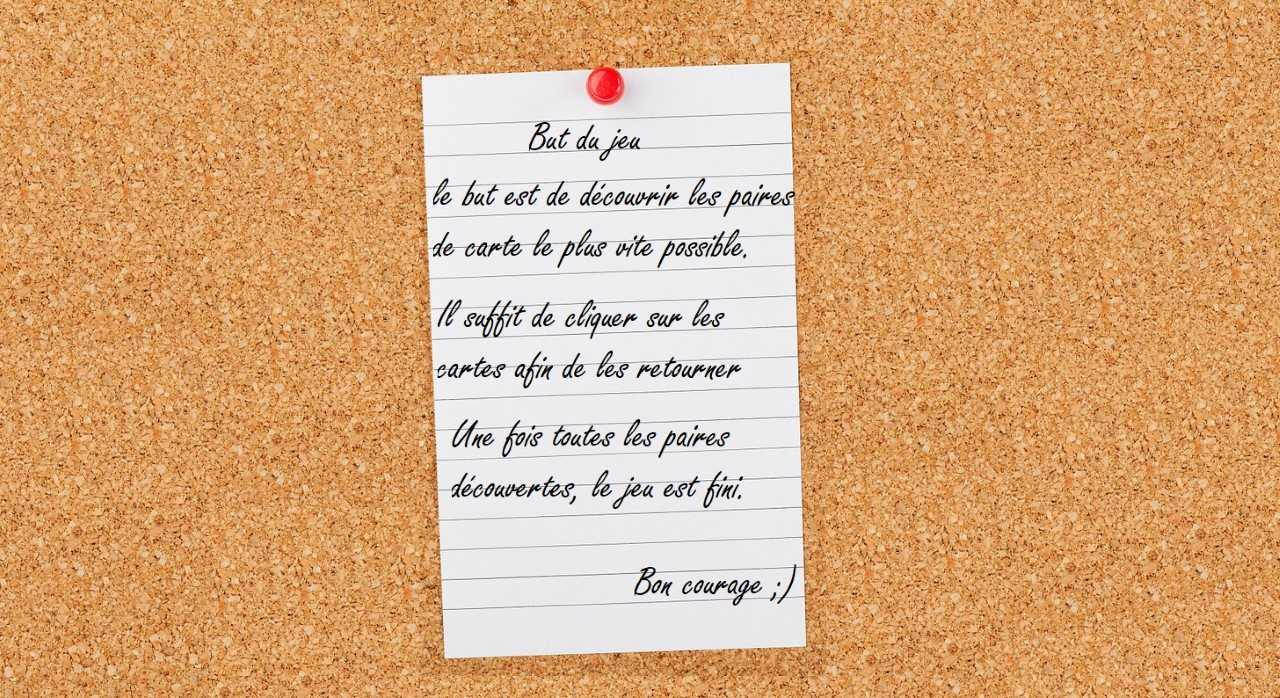
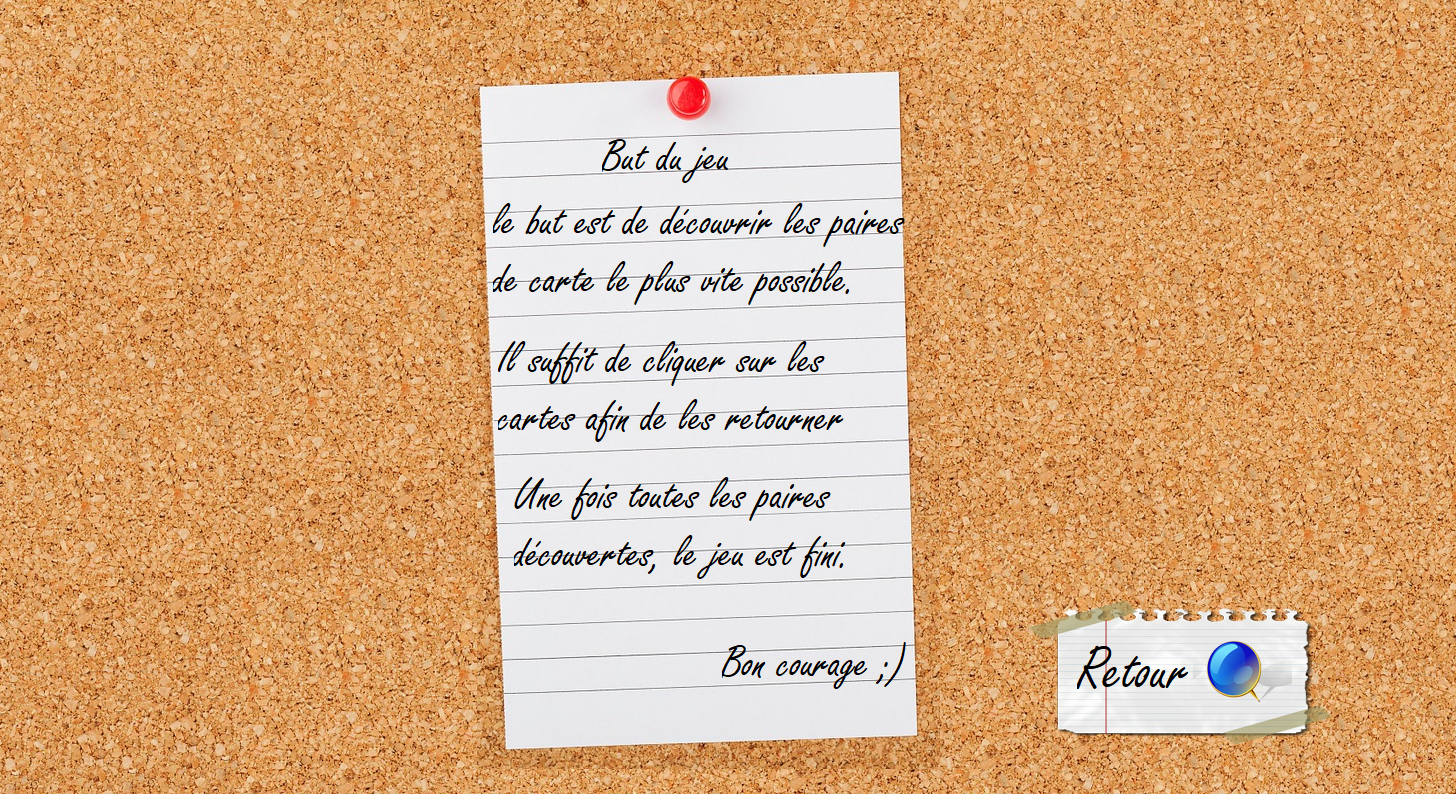
.

diff --git a/Programme/main.c b/Programme/main.c
@@ -100,7 +100,7 @@ void Difficile(){
 void Victoire(void){
     InitialiserGraphique();
     CreerFenetre(10,25,1280,720); 
-    ChargerImageFond("../Image/fond.png");
+    ChargerImageFond("../Image/victoire.png");
     while (!SourisCliquee())
     {
       DessinerRectangle(950,563,100,63);
